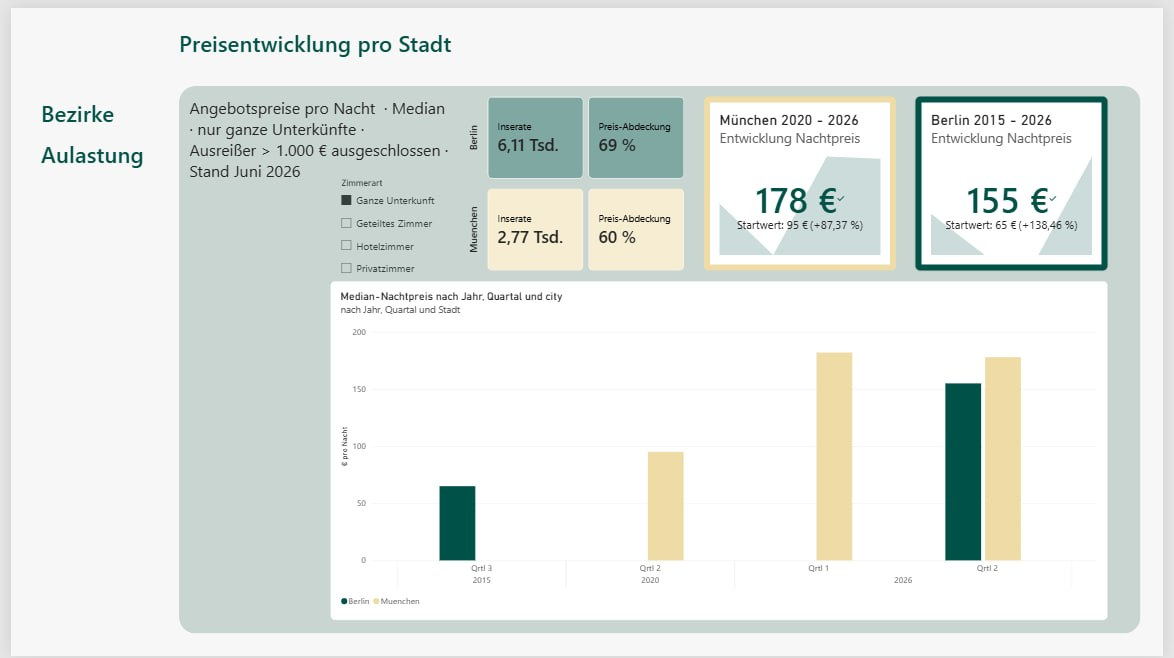
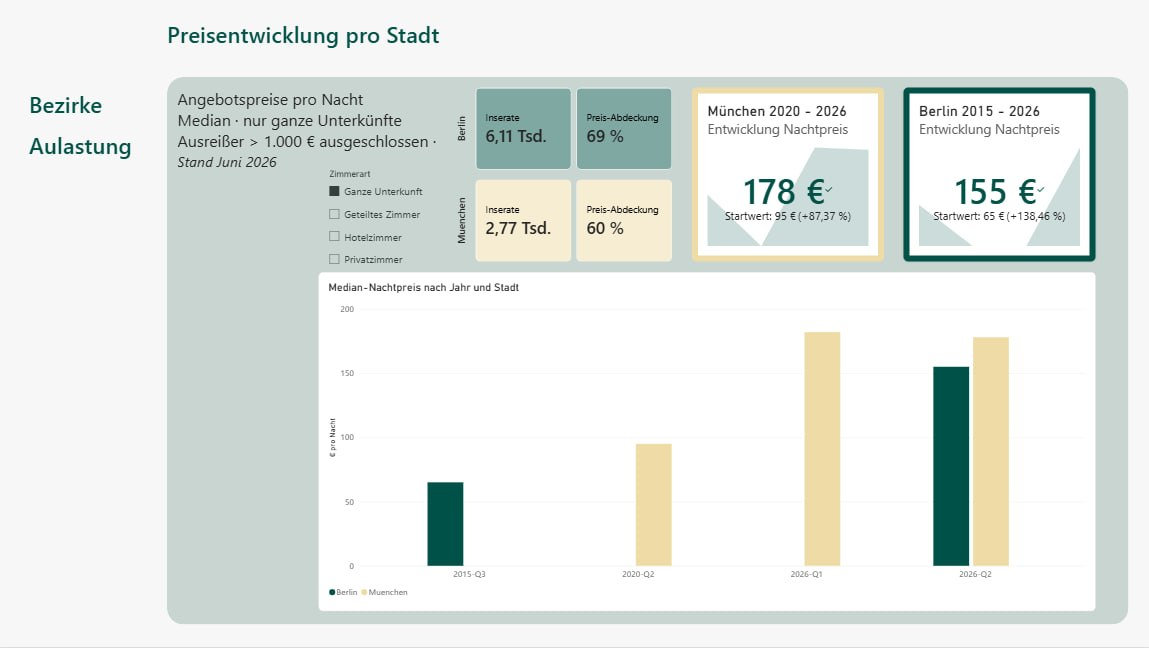
docs: Startseiten-Screenshot aktualisiert (kategoriale, chronologisch sortierte Achse)

diff --git a/README.md b/README.md
@@ -182,7 +182,7 @@ Import in Power BI: Zahlen mit Gebietsschema **Deutsch**, die Wahr/Falsch-Spalte
 (`has_price`, `is_price_outlier`, …) mit **Englisch (USA)** — im CSV stehen
 `true`/`false`.
 
-![Startseite des Power-BI-Berichts: Preisentwicklung Berlin und München](docs/powerbi_startseite.png)
+![Startseite des Power-BI-Berichts: Preisentwicklung Berlin und München](docs/powerbi_startseite.png?v=2)
 
 ## Continuous Integration
 
